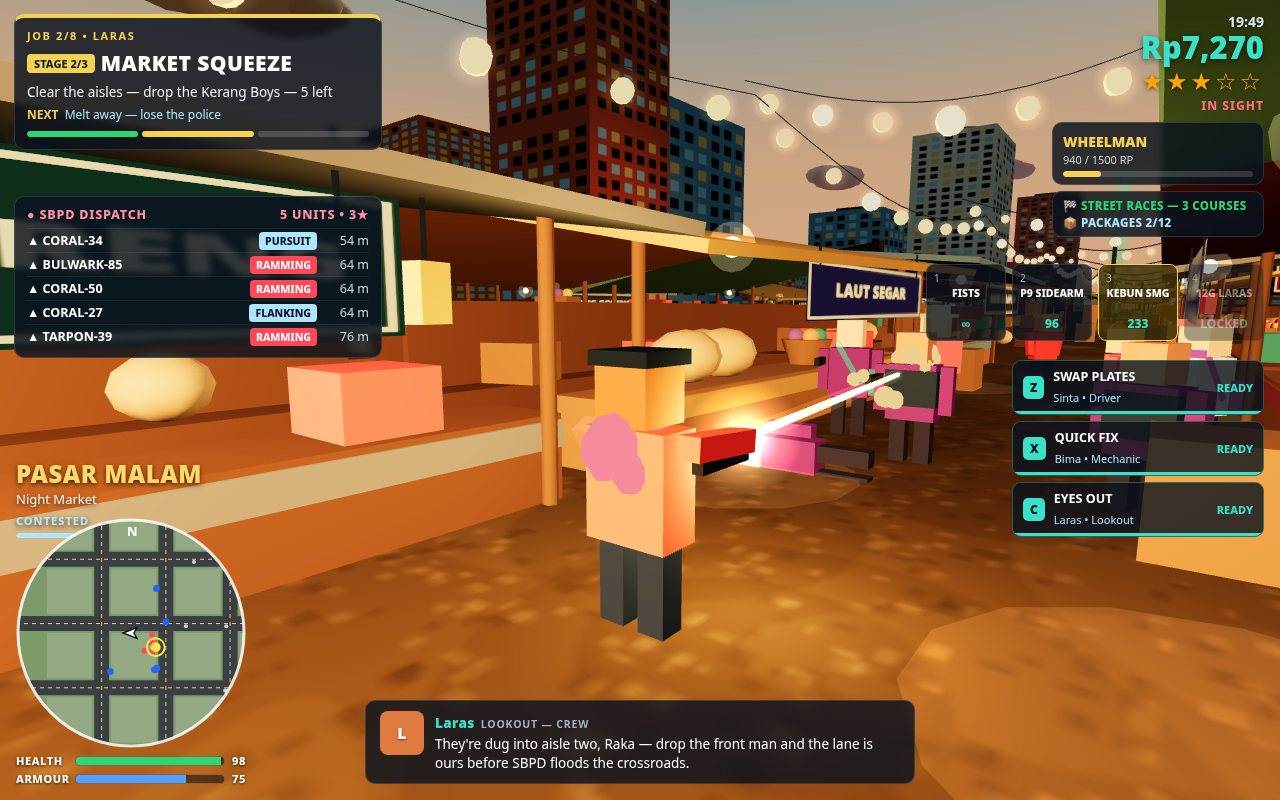
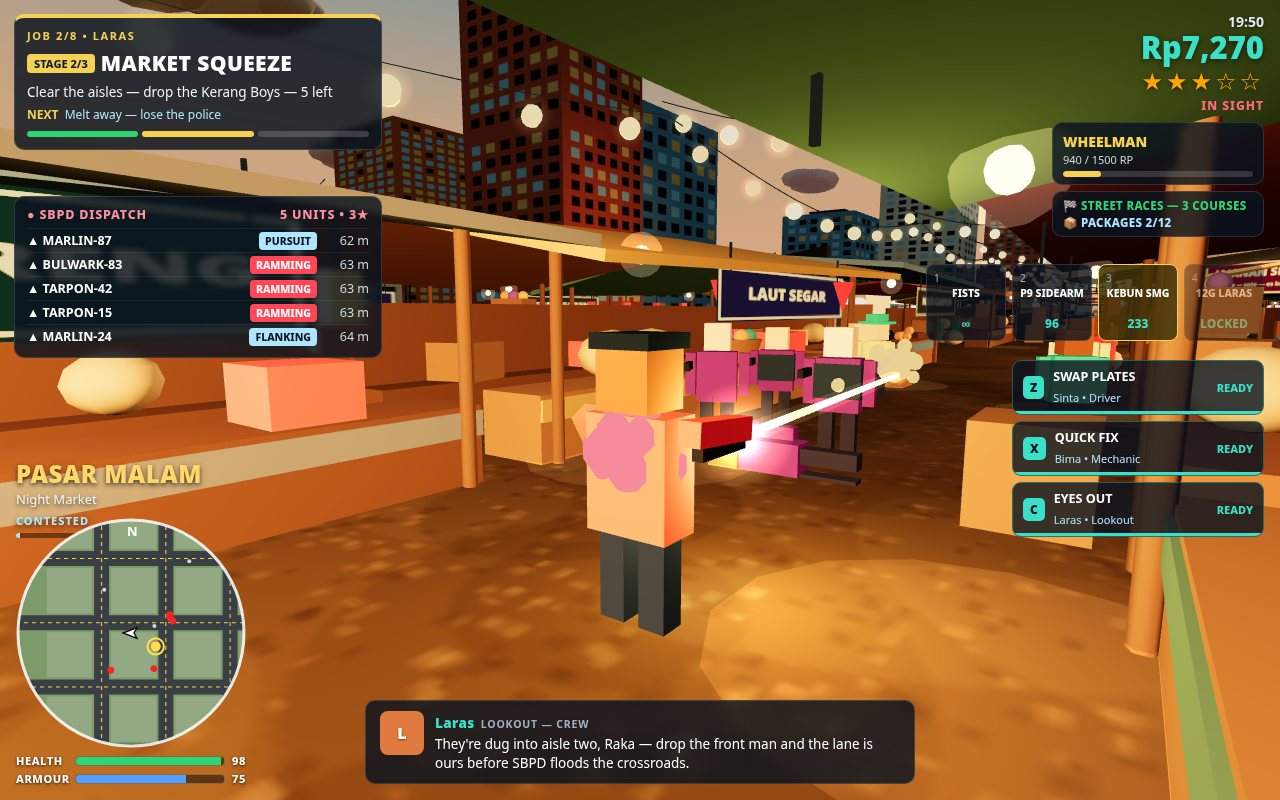
Senja Bay v5 market: clean-window composition — enemies centred, return fire readable

diff --git a/game/src/shots.js b/game/src/shots.js
@@ -30,156 +30,137 @@ export function stageScene(name, api) {
       break;
     }
     case "market": {
-      // On-foot combat INSIDE the night market — v5.1 staging,
+      // On-foot combat INSIDE the night market — v5.3 staging,
       // in the widened market's aisle 2 (centre z = 109.75,
       // clear lane z ≈ 106.9–112.6 between the stall colliders).
       //
-      // THE LATERAL DUEL (owner's pinned reference: the Karimbu
-      // market frame). Every earlier staging fired DOWN the
-      // aisle with the camera on the shot line, so the fight
-      // receded into depth and the hero's back filled the frame.
-      // The reference does the opposite: the firing line is
-      // LATERAL — hero in back three-quarter, gun arm extended
-      // sideways in profile, the beam travelling horizontally
-      // across open ground, the corpse flat in the open directly
-      // under the beam line, crowd grouped in the same
-      // mid-ground plane, stalls framing both edges. Enemy,
-      // weapon and bullets all live in one readable plane.
-      //   * THE GEOMETRY: Raka stands in the lane's northern
-      //     half and fires due EAST along z = 109.0 (camOffset 0
-      //     while the trigger is held, so his staged heading,
-      //     his raised gun arm and the shot ray all agree).
-      //   * THE SWING: the duel is fired from the game's own
-      //     behind-the-back follow view; once the capture tool
-      //     freezes the fired moment (see THE FREEZE below), it
-      //     swings the camera around Raka to his gun side
-      //     (camOffset ≈0.78, ≈45°): south-west of him at
-      //     shoulder height, looking north-east across the
-      //     lane. In staging the pointer never locks, so Raka's
-      //     heading and firing pose hold while camYaw lerps to
-      //     its new target — what turns is the camera, never
-      //     the actor. From there he reads in back three-quarter
-      //     profile, gun arm extended across the frame; the
-      //     frozen beam runs over the corpse to the far man;
-      //     the north stalls become the backdrop wall. THE
-      //     CAMERA'S LIMIT, measured: a full 90° profile swing
-      //     parks the camera due south, and from 4.2 m back a
-      //     target 5.8–6.6 m along the lane sits 41–53° off the
-      //     look axis — at or beyond the frame's edge and
-      //     behind the HUD's right column. ≈45° is the
-      //     strongest gun-side view the real follow camera
-      //     honestly holds with the whole duel in frame.
-      //   * ONE MAN DOWN, IN THE OPEN. The near man stands ON
-      //     the ray 4.5 m out. A hostile stands his ground
-      //     facing Raka (updatePeds), and the corpse settle tips
-      //     him TOWARD his facing — his body comes to rest along
-      //     the ~1.9 m of open floor between his feet and Raka,
-      //     directly under the continuing beam line. The range
-      //     was 3.2 m in the first lateral staging and the swung
-      //     camera LOST the body entirely: settled at Raka's
-      //     feet, it hid under his silhouette and the frame's
-      //     lower edge. At 4.5 m the body spans ~2.6–4.5 m out —
-      //     clear of the hero, mid-frame, the Karimbu
-      //     arrangement of a body flat in open ground under the
-      //     beam. He wears the gang purple without the vest:
-      //     face-up, the bare shirt is what keeps the body
-      //     readable — the near-black vest swallowed an earlier
-      //     corpse whole.
-      //   * THE STANDING TARGET: the far man on the same ray
-      //     5.4 m out, backed against the north stall fronts
-      //     with a painted sign behind him and a gap in the
-      //     crowd on both sides, so the frozen burst on his
-      //     torso has nothing to blend into. Behind him the
-      //     gang stands in ECHELON along the stall fronts —
-      //     two more Kerang Boys at ~7.4 m and ~5.6 m, stepped
-      //     off the ray (1.4 m north, 2.5 m south — outside
-      //     the ray test's 0.9 m pick radius, so Raka's fire
-      //     still walks near man → far man and never picks
-      //     them), each separated from the next by open
-      //     floor, so the frame reads as a gang shootout,
-      //     not a duel. His wingman covers from further east
-      //     along the north front — a fourth gun at the
-      //     frame's edge.
+      // THE CLEAN-WINDOW RECOMPOSITION (owner's verdict on the
+      // v5.2 frame, treated as spec): the shootout was barely
+      // visible — the enemy group landed at ~70–80% of frame
+      // width, inside the right HUD column, small and crowded
+      // out, and the return fire never read, so the frame
+      // played as one-way fire. The frame's CLEAN STAGE WINDOW
+      // — the band no HUD panel owns — is roughly 30–65% of
+      // width, vertical middle. This staging is composed
+      // inside it, and the composition was designed on a
+      // calibrated camera model before it was staged (model:
+      // follow cam 4.2 m back, HFOV ≈ 88.8°, swing = camOffset;
+      // bias-corrected against the measured v5.2 frame):
+      //   * SPREAD, NOT CLUSTER (the Brisa Bay lesson): the
+      //     gang stands as INDIVIDUALS across the window on
+      //     open lane floor, each with empty space around him —
+      //     a north firer at the window's left (~43%), a
+      //     north-mid holder (~55%), the primary target on the
+      //     ray (~59%) — not one pink mass at the frame's edge.
+      //     The spread is built from the CAMERA's bearings, not
+      //     from Raka's: north-side men sit nearer the swung
+      //     view axis and land central; anything south of the
+      //     ray is flung past 75% by the swing (measured: the
+      //     old south firer stood at ~91% — inside the weapon
+      //     panels — which is why his fire never read).
+      //   * RAKA FIGHTS FROM THE LANE'S SOUTH HALF (z = 110.2)
+      //     so the whole gang can stand NORTH of his ray, in
+      //     the open lane, with the north stall fronts as a
+      //     distant backdrop instead of a wall at their backs.
+      //   * THE LATERAL LINE stays: Raka fires due EAST
+      //     (camOffset 0 while the trigger is held), the beam
+      //     travels horizontally, and after the freeze the
+      //     capture tool swings the camera to his gun side.
+      //     The swing is pushed as far toward profile as the
+      //     duel staying inside the window allows — the casts
+      //     measure each stop in pixels and the largest swing
+      //     that keeps every enemy under 65% wins.
+      //   * ONE MAN DOWN, ISOLATED (the Karimbu lesson): the
+      //     near man stands on the ray 4.3 m out, 0.4 m north
+      //     of its line; his body settles toward Raka along
+      //     ~1.9 m of lane and comes to rest with NOTHING
+      //     within ~1.5 m of it — the primary's feet are 1.6 m
+      //     past his head, the fronts are ~2.8 m away, the
+      //     crowd pairs are metres off — a body alone in a lit
+      //     patch of open floor under the beam, not a shape
+      //     lost under legs or stall clutter. He wears the
+      //     gang purple without the vest: face-up, the bare
+      //     shirt is what keeps a body readable.
+      //   * RETURN FIRE IS CARRIED BY THE ORBS (the PCPD
+      //     lesson): three guns fire back in the reference
+      //     frames and what reads is a big glowing orb at each
+      //     enemy muzzle, the beam as support. Two firers are
+      //     cued by the capture tool at the freeze: the primary
+      //     (his beam runs collinear with Raka's — one line
+      //     hides the other, cast36's evidence — so HIS read
+      //     is his orb and the burst he puts on Raka) and the
+      //     NORTH FIRER, 5.2 m out and 2.7 m north of the ray,
+      //     whose beam crosses the open lane at ~32° in plan —
+      //     a genuinely different angle, over lit floor, from
+      //     a muzzle the swing keeps at the window's left edge
+      //     where nothing crowds it. The hostile orb itself
+      //     now runs 0.92 in the game (v5.3): at the shipped
+      //     0.55 the bloom never registered in a still.
+      //   * THE RED ▼: every staged hostile wears the game's
+      //     own combat marker over his head (v5.3, in
+      //     actors.js/main.js — a real feature of normal play,
+      //     not staging paint): three small red triangles over
+      //     three spread gunmen is the direct answer to
+      //     "the enemies are covered, I can't see them".
       //   * THE CROWD frames the duel from the same plane:
-      //     pinned pairs along both stall fronts, west and east
-      //     of the fight, none within 1.2 m of the ray and none
-      //     crossing the sightline; two unpinned reactors flee
-      //     when the shooting starts, the game's own panic.
+      //     pinned pairs along both stall fronts, west and
+      //     east of the fight, none within 1.5 m of the corpse
+      //     patch and none crossing the sightline; two
+      //     unpinned reactors flee when the shooting starts.
       //   * THE FREEZE. The tracer lives 0.09 s — no grab can
       //     catch it live — so the capture tool fires the duel
-      //     for real, then freezes the effects at the far man's
-      //     first hit through the STAGE-only setFxFreeze handle:
-      //     beam, muzzle orb, impact burst and the retuned wisp
-      //     of dust hang at full brightness in one still while
-      //     the aisle keeps living around them.
+      //     for real, then freezes the effects at the primary's
+      //     first hit through the STAGE-only setFxFreeze
+      //     handle: every beam and orb fired inside the window
+      //     (Raka's outbound, both firers' inbound, all three
+      //     muzzle blooms) hangs at full brightness in one
+      //     still while the aisle keeps living around them.
       //   * NO POLICE LIGHT IN THE FRAME. The dispatch panel
       //     may list its units — the capture tool holds the
-      //     response cars at bay for the length of the duel,
-      //     so no cone or pool ever crosses the shot.
-      //   * TWO-WAY FIRE. The fight is not a duel: the far
-      //     man and the south man shoot back. The capture
-      //     tool keeps every staged gun silent while the
-      //     scene settles, then — at the moment it freezes
-      //     the far man's first hit — cues those two to fire
-      //     (their own shootCd, their own muzzles), so the
-      //     frozen still holds Raka's beam outbound and their
-      //     red tracers inbound in the same instant. Nothing
-      //     about their fire is drawn by hand: it is the
-      //     game's own hostile fire, timed, not faked. The
-      //     south man is the one whose tracer READS: the far
-      //     man's return beam runs collinear with Raka's own
-      //     (same line, opposite directions — one line hides
-      //     the other, cast36's evidence), and a firer at the
-      //     lane's far end crosses at too shallow an angle to
-      //     separate from it in a still (cast37's evidence:
-      //     ~17° in plan, and the hostile tracer is a 5 cm
-      //     salmon line by design). So the second firer
-      //     stands across the lane AND close — 5.6 m out,
-      //     2.5 m south of the ray — and his beam crosses at
-      //     ~27° in plan, at a range where his muzzle orb
-      //     and tracer are at their largest in frame.
-      // Clock 19.7: the late edge of the locked senja — the
-      // sky keeps its ember band, the stall walls sit in
-      // canopy shade, and the lamps, the lit sign faces and
-      // the gunfire are the frame's brightest things.
+      //     response cars at bay for the length of the duel.
+      // Clock 19.7 at staging (the HUD reads ~19:49 by the
+      // capture): the late edge of the locked senja — lamps,
+      // lit sign faces and gunfire are the frame's brightest
+      // things.
       api.setClock(19.7);
       api.setStats({ money: 7270, respect: 940, health: 100, armor: 80 });
       api.startJobAt(1, 1);                    // clear-the-aisles stage (spawns hostiles)
-      api.placeOnFoot(-241.5, 109.0, Math.PI / 2); // aisle 2's west stretch, firing due east along the lane
+      api.placeOnFoot(-241.5, 110.2, Math.PI / 2); // aisle 2's south half, firing due east along z = 110.2
       api.setCamOffset(0);
-      // The fight, all of it on the east ray out of
-      // (−241.5, 109.0): the near man 4.5 m out at (−237.0,
-      // 109.0) — he is the kill, and his body settles flat in
-      // the open under the beam line, clear of Raka's
-      // silhouette; the far man 5.9 m out at (−235.6, 109.0)
-      // — he is the standing target the frozen burst lands
-      // on, in front of the north row's stall at x ≈ −233.5,
-      // its hanging sign as his backdrop, with open floor
-      // between the corpse's head and his feet. The ranges
-      // stay tight on purpose: the follow camera is fixed
-      // 4.2 m back and looks AT Raka, so from the swung
-      // gun-side view every metre of duel length costs ~5° of
-      // frame — at 6.6 m the target slid to 79% of the width,
-      // behind the HUD's right column and with his head inside
-      // the weapon panels; at 5.4 m he stood at ~69%, and
-      // 5.9 m buys the corpse its room for ~3 points more.
-      // His wingman covers from the same front further east,
-      // a separate figure in his own space. Between the far
-      // man and the wingman, the echelon: two more Kerang
-      // Boys along the stall fronts — one stepped north of
-      // the ray, bare-shirted so he pops against the shaded
-      // fronts at his range, and one across the lane on the
-      // south front, vested. The south man is a cued
-      // return-firer like the far man (his cross-lane
-      // diagonal is the inbound tracer that reads — see
-      // TWO-WAY FIRE above); the north man and the wingman
-      // hold their fire for the frozen instant (not every
-      // gun in a gang fires in the same tenth of a second).
-      api.addPed(-237.0, 109.0, { hostile: true, gun: true, shirt: 0x6c3483, vest: false });
-      api.addPed(-235.6, 109.0, { hostile: true, gun: true, shirt: 0x6c3483, vest: true });
-      api.addPed(-234.2, 107.6, { hostile: true, gun: true, shirt: 0x6c3483, vest: false });
-      api.addPed(-236.5, 111.5, { hostile: true, gun: true, shirt: 0x6c3483, vest: true });
-      api.addPed(-229.5, 107.6, { hostile: true, gun: true, shirt: 0x6c3483, vest: true });
+      // The fight, relative to Raka at (−241.5, 110.2):
+      //   near man (+4.3, +0.1) at (−237.2, 110.3) — the kill;
+      //     his body settles west along the lane into its own
+      //     empty patch under the beam (a hair south of the
+      //     ray line, so the north-mid's legs stay off it from
+      //     the swung camera).
+      //   primary (+5.9, −0.8) at (−235.6, 109.4) — the
+      //     standing target Raka's frozen burst lands on, a
+      //     cued return-firer; 0.8 m north of the ray line is
+      //     inside the ray test's 0.9 pick tolerance, so
+      //     Raka's fire still walks near man → primary.
+      //   north firer (+5.7, −2.7) at (−235.8, 107.5) —
+      //     the diagonal return-firer; 2.7 m off the ray, so
+      //     Raka's fire never picks him; his own beam crosses
+      //     the lane at ~28°.
+      //   north-mid (+7.9, −2.7) at (−233.6, 107.5) — the
+      //     third standing gun, holding his fire for the
+      //     frozen instant, stepped between the firer and the
+      //     primary in depth so the three read as individuals.
+      //   (Bearing fit, calibrated on two casts of this
+      //     composition: x% ≈ 50.7 + 0.72·Δθ, Δθ = a man's
+      //     bearing from the CAMERA minus the view axis's.
+      //     The trap it exposed: a man standing ON the axis
+      //     bearing (Δθ ≈ 0) projects onto Raka's silhouette
+      //     and vanishes behind him — the firer's first two
+      //     spots sat within 2° of the axis at their swings.
+      //     The landed swing is ~0.65, which puts the firer
+      //     at Δθ ≈ +6° (~55%), north-mid ~+12° (~59%), the
+      //     primary ~+18° (~63%) — spread, clear of the hero,
+      //     and inside the window.)
+      api.addPed(-237.2, 110.3, { hostile: true, gun: true, shirt: 0x6c3483, vest: false });
+      api.addPed(-235.6, 109.4, { hostile: true, gun: true, shirt: 0x6c3483, vest: true });
+      api.addPed(-235.8, 107.5, { hostile: true, gun: true, shirt: 0x6c3483, vest: false });
+      api.addPed(-233.6, 107.5, { hostile: true, gun: true, shirt: 0x6c3483, vest: true });
       // The crowd. api.addPed returns the ped, and pinning its
       // wander speed is what keeps a browser browsing his stall
       // for the whole capture: the game's shoppers walk at up to
@@ -187,22 +168,22 @@ export function stageScene(name, api) {
       // earlier take lost its target behind a wanderer who
       // strolled into the sightline and stood there.
       const shopper = (x, z, speed) => { const p = api.addPed(x, z, {}); if (p) p.speed = speed; };
-      // North-front pairs, west and east of the fight, in the
-      // duel's own plane (the far man's backdrop gap stays his):
+      // North-front pairs, west and east of the fight:
       shopper(-248.5, 107.6, 0.3);
       shopper(-247.2, 107.7, 0.35);
       shopper(-229.8, 107.6, 0.35);
       shopper(-228.5, 107.7, 0.3);
       // South-front pairs — foreground framing at the swung
-      // camera's flanks, clear of its sightline cone:
-      shopper(-249.5, 111.6, 0.3);
-      shopper(-248.2, 111.7, 0.35);
-      shopper(-232.5, 111.6, 0.35);
-      shopper(-231.2, 111.7, 0.3);
+      // camera's flanks, clear of its sightline cone and of
+      // the corpse patch:
+      shopper(-249.5, 112.3, 0.3);
+      shopper(-248.2, 112.4, 0.35);
+      shopper(-231.5, 112.3, 0.35);
+      shopper(-230.2, 112.4, 0.3);
       // Reactors inside the panic radius — already running when
       // the first shot lands:
-      api.addPed(-252, 109.4, {});
-      api.addPed(-227, 110.4, {});
+      api.addPed(-252, 110.8, {});
+      api.addPed(-226.5, 111.5, {});
       // A shopper's scooter parked in the crossroads south of
       // the aisle's east stretch; the HUD's package count is
       // set to the beach and pier finds, so the market's own

diff --git a/game/src/main.js b/game/src/main.js
@@ -438,6 +438,7 @@ function settleCorpse(mesh) {
   mesh.rotation.x = -Math.PI / 2;
   mesh.position.y = 0.22;
   if (mesh.userData.gun) mesh.userData.gun.visible = false;
+  if (mesh.userData.marker) mesh.userData.marker.visible = false;
 }
 const particles = [];
 const particleGeo = new THREE.SphereGeometry(0.1, 5, 5);
@@ -745,6 +746,16 @@ function updatePeds(dt) {
     let move = p.speed;
     const dPlayer = dist2d(p.pos, fp);
     if (p.hostile) {
+      // The red ▼ rides over an active hostile: visible while he
+      // is close enough to be part of the fight (he engages at
+      // 17 m; the tag fades in a little beyond that, so a gunman
+      // reads as a gunman while he closes), hidden the moment he
+      // dies (settleCorpse) or the player leaves him behind.
+      if (p.mesh.userData.marker) {
+        const mk = p.mesh.userData.marker;
+        mk.visible = dPlayer < 26;
+        mk.position.y = 2.42 + Math.sin(p.phase * 1.7) * 0.05;
+      }
       // Close in to range, then strafe and shoot.
       if (dPlayer > 17) { p.heading = Math.atan2(fp.x - p.pos.x, fp.z - p.pos.z); move = 4.6; }
       else {
@@ -755,9 +766,14 @@ function updatePeds(dt) {
           audio.shoot("smg");
           // Return fire wears the same signs as the player's — an orb
           // at his muzzle and a beam to the man he is shooting at —
-          // so a two-way fight reads from either side.
+          // so a two-way fight reads from either side. The hostile
+          // orb runs LARGE (v5.3, owner-ordered): at 0.55 the bloom
+          // never registered past a few metres — not in motion, not
+          // in a still — and a shootout whose return fire cannot be
+          // seen reads as one-way. 0.92 is still a muzzle flash,
+          // not a firework: a 0.085 s bloom at the barrel tip.
           const muzzle = new THREE.Vector3(-0.42, 1.35, 0.35).applyAxisAngle(Y_AXIS, p.heading).add(p.pos);
-          fireOrb(muzzle, 0.55, 0xffc9b0);
+          fireOrb(muzzle, 0.92, 0xffc9b0);
           fireBeam(muzzle, new THREE.Vector3(fp.x, 1.3, fp.z), true);
           burst(new THREE.Vector3(fp.x, 1.2, fp.z), 0xff6b81, 5, 2, 1.5, 1.6);
           if (S.inCar) damageCar(S.inCar, 2, null); else hurtPlayer(4);

diff --git a/game/src/actors.js b/game/src/actors.js
@@ -216,6 +216,25 @@ export function buildPersonMesh(opts = {}) {
     const gun = box(0.08, 0.12, 0.55, MAT.black, -0.42, 1.3, 0.3, g);
     g.userData.gun = gun;
   }
+  if (opts.hostile) {
+    // Combat marker (v5.3): a small red ▼ floating over an active
+    // hostile's head — the reference games tag every gunman this
+    // way, and it answers the owner's longest-running screenshot
+    // complaint: enemies the eye cannot find in the frame. Basic
+    // material so it stays red at dusk. updatePeds owns when it
+    // shows (an engaged hostile, never a corpse, never a
+    // bystander) and its gentle bob; it starts hidden.
+    const tri = new THREE.Mesh(
+      new THREE.ConeGeometry(0.17, 0.42, 4),
+      new THREE.MeshBasicMaterial({ color: 0xff2d2d })
+    );
+    tri.rotation.x = Math.PI;        // apex down
+    tri.rotation.y = Math.PI / 4;    // diamond face to the viewer
+    tri.position.y = 2.42;
+    tri.visible = false;
+    g.add(tri);
+    g.userData.marker = tri;
+  }
   if (opts.vest) box(0.66, 0.5, 0.38, new THREE.MeshLambertMaterial({ color: 0x243447 }), 0, 1.18, 0, g);
   // Slight height variety across the crowd.
   g.scale.y = opts.height ?? (0.93 + Math.random() * 0.13);
